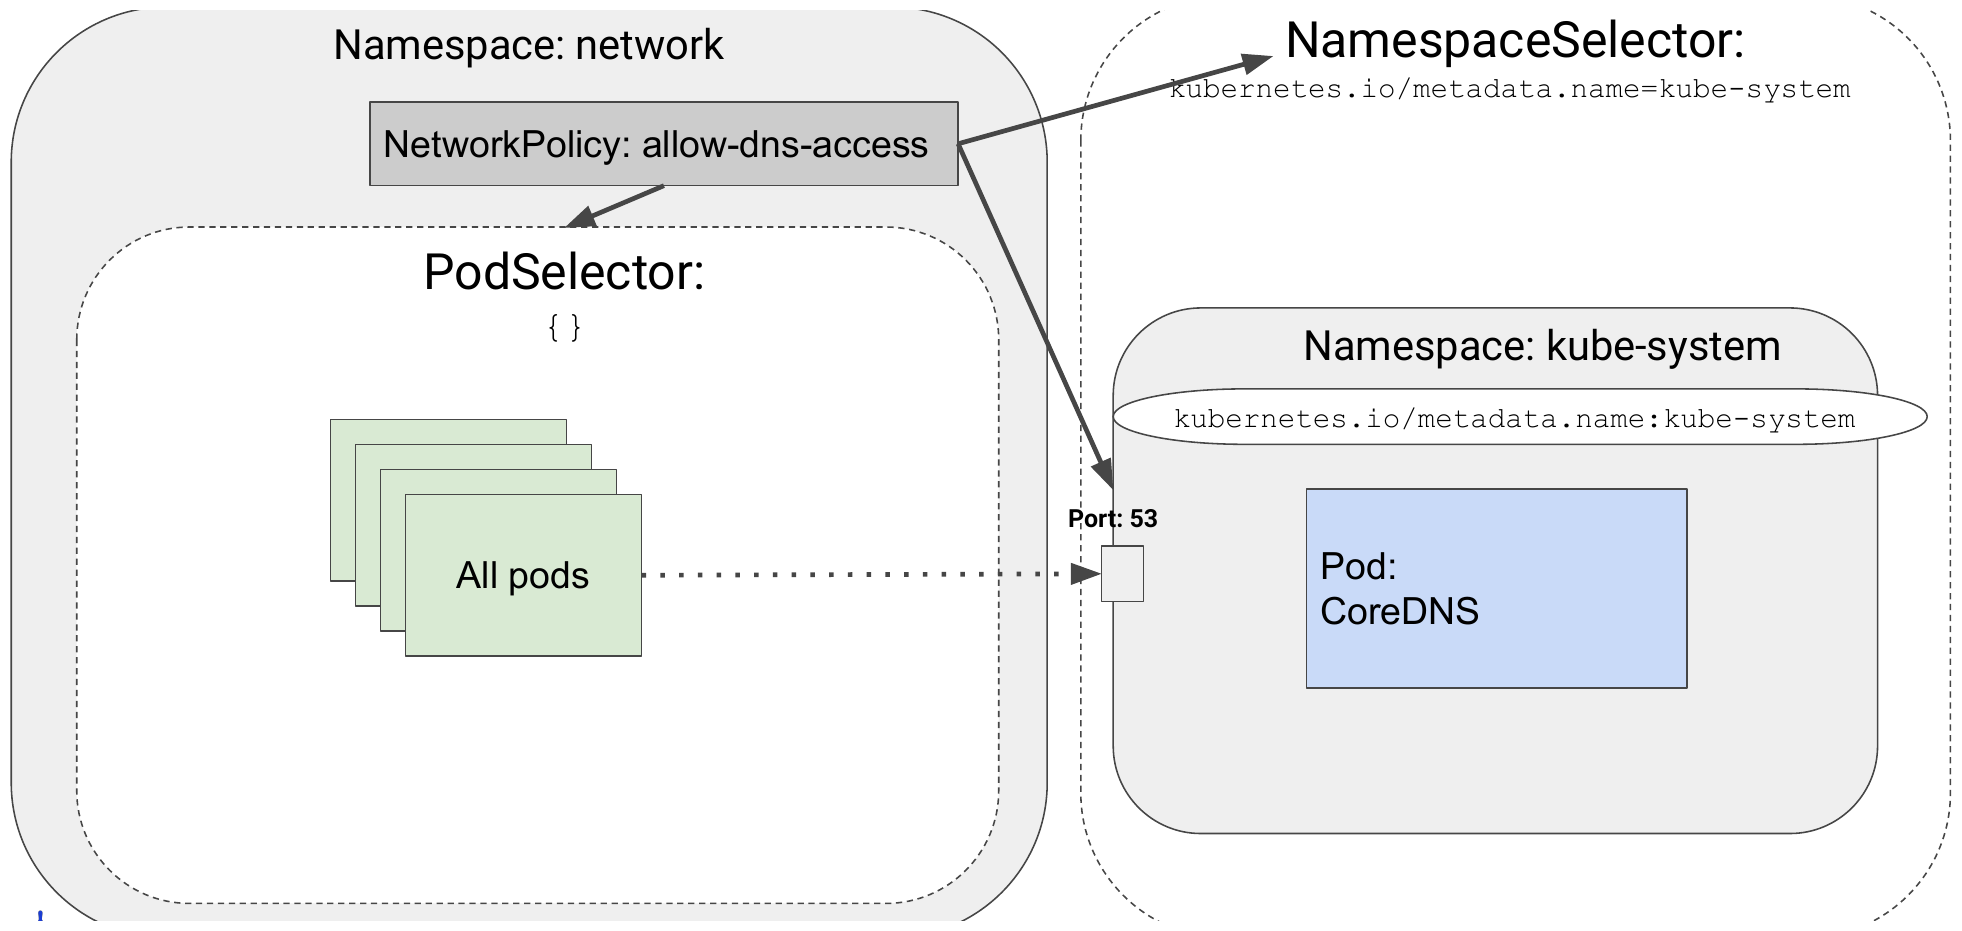
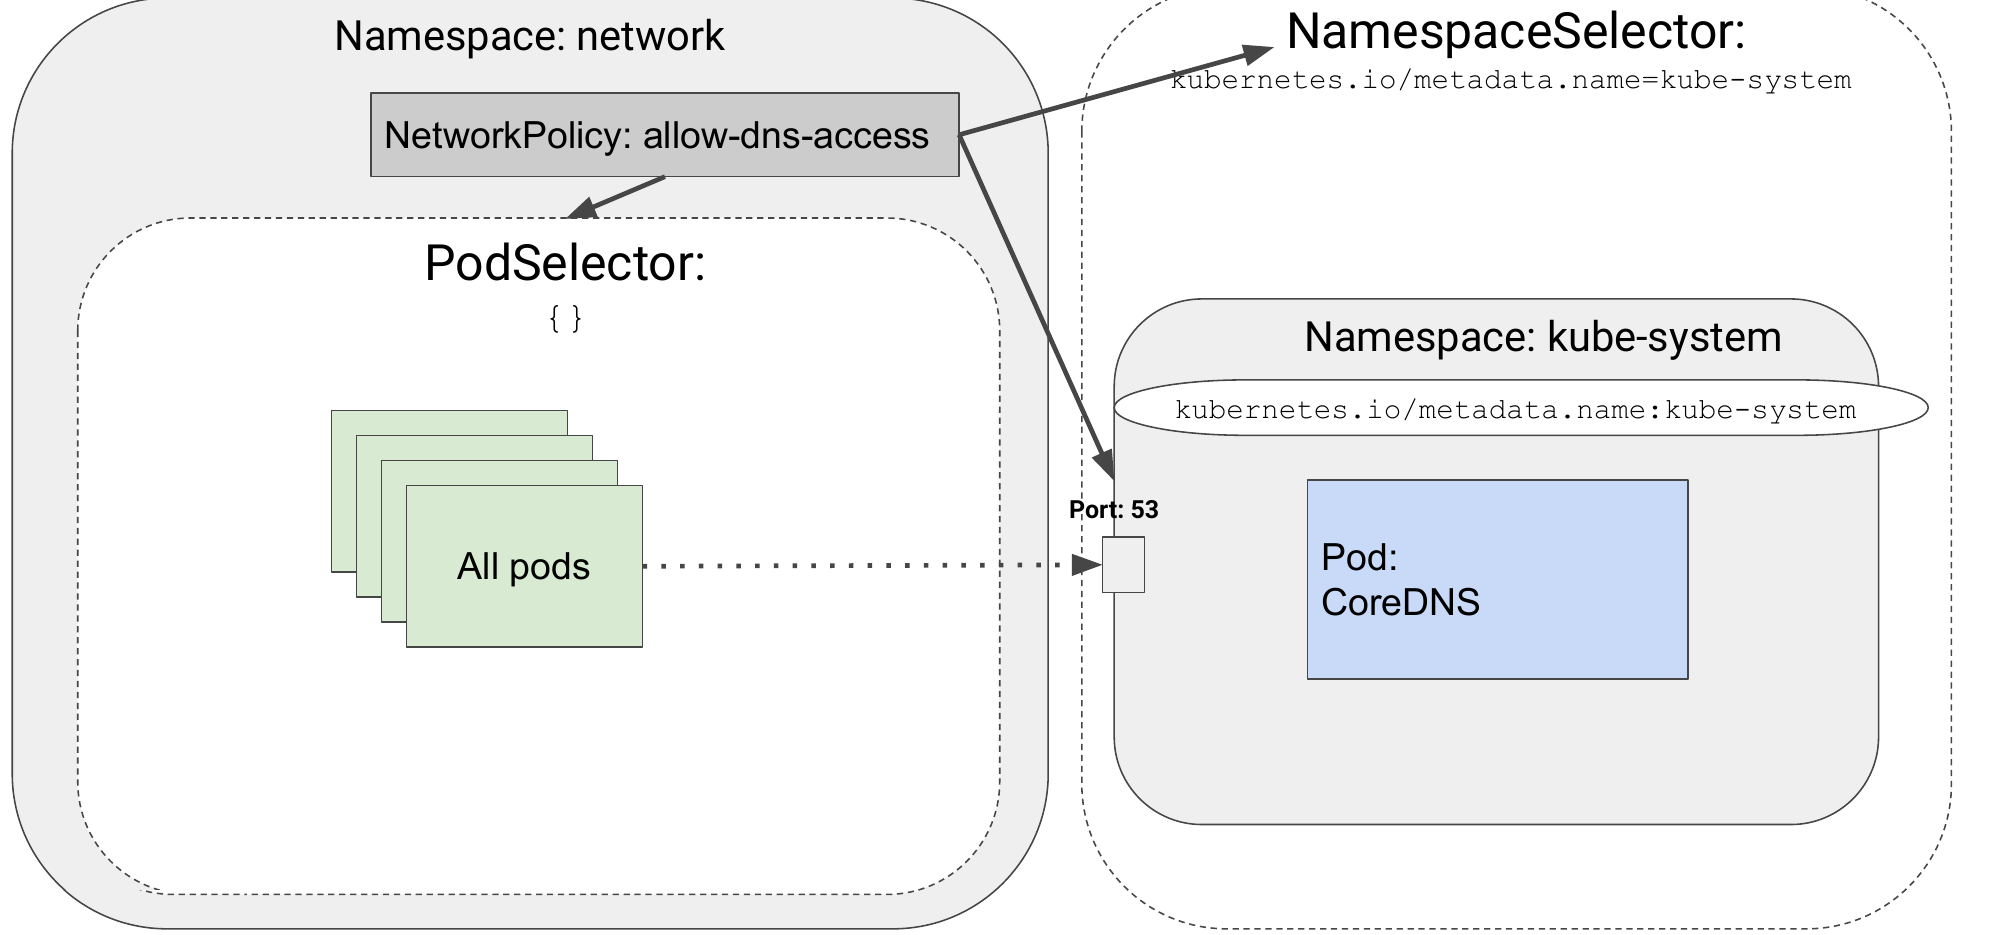
NetworkPolicy: lab intro links the reference, the recipes and the interactive editor; E_03 slides diagrams re-extracted uncropped

diff --git a/content/1_Labs/networkpolicy.en.md b/content/1_Labs/networkpolicy.en.md
@@ -20,7 +20,13 @@ The application has three pods:
 | `webserver` | `tier=webserver` | The only client allowed to reach the database |
 | `external` | `app=external` | Any other pod: must reach nothing |
 
-The lab works on a cluster shared by the trainees: each one works in a namespace of their own. The NetworkPolicies are enforced by the CNI plugin: the one of the training cluster supports them.
+The lab works on a cluster shared by the trainees: each one works in a namespace of their own. The NetworkPolicies are enforced by the CNI plugin: the training cluster runs [Cilium](https://cilium.io/), which supports them.
+
+Useful resources:
+
+- [The NetworkPolicy resource](https://kubernetes.io/docs/concepts/services-networking/network-policies/#networkpolicy-resource): the reference, allowed in the exam
+- [kubernetes-network-policy-recipes](https://github.com/ahmetb/kubernetes-network-policy-recipes): one example per common use case
+- [Interactive editor](https://editor.networkpolicy.io/): draw the allowed flows, get the YAML
 
 ## Setup
 

diff --git a/slides/E_03_advanced-k8s_Security_node+network.md b/slides/E_03_advanced-k8s_Security_node+network.md
@@ -613,19 +613,19 @@ See:
 
 ## Only some pods can access other pods, only on a specific port
 
-![width:1150px](images/e03-netpol-port.png)
+![height:500px](images/e03-netpol-port.png)
 
 ---
 
 ## Add DNS access for all pods
 
-![height:520px](images/e03-netpol-dns.png)
+![height:500px](images/e03-netpol-dns.png)
 
 ---
 
 ## Only pods in namespaces matching a `namespaceSelector` can access a pod
 
-![height:480px](images/e03-netpol-namespace.png)
+![height:460px](images/e03-netpol-namespace.png)
 
 ---
 
